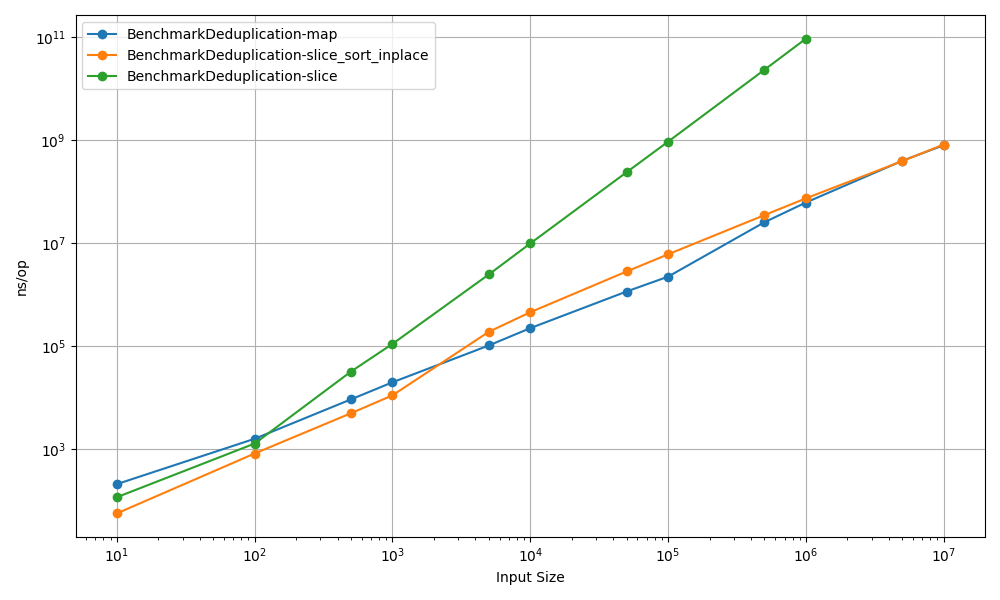
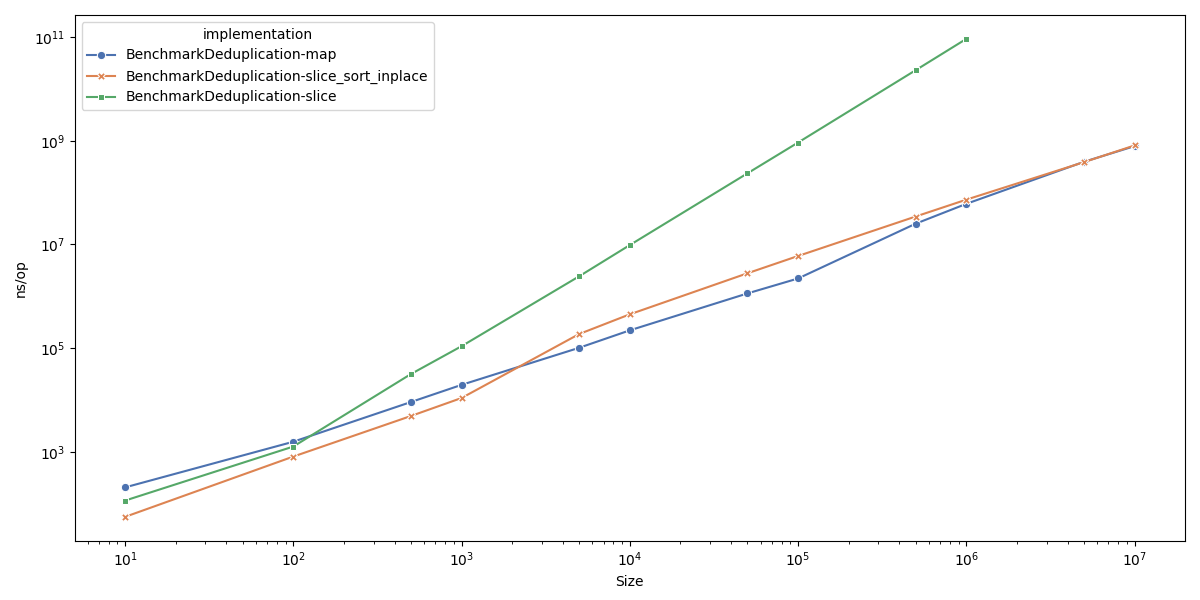
Updated plot.py

diff --git a/plot.py b/plot.py
@@ -1,72 +1,142 @@
-# Yes, this file was generated by chatgipity.
-# 
 import pandas as pd
 import matplotlib.pyplot as plt
-from io import StringIO
+import re
 import argparse
+from io import StringIO
+import seaborn as sns
 
-parser = argparse.ArgumentParser(description="Plot ns/op from benchstat CSV")
+# --- CLI ARGUMENTS ---
+parser = argparse.ArgumentParser(
+    description="Plot ns/op from benchstat CSV with multi-param support"
+)
 parser.add_argument("csvfile", help="Path to benchstat CSV file")
 parser.add_argument("output", help="Output PNG file")
 args = parser.parse_args()
 
-rows = []
-file_labels = []
-
+# --- LOAD CSV LINES ---
 with open(args.csvfile) as f:
     lines = f.readlines()
 
-# Step 1: Locate the sec/op section
+rows = []
+file_labels = []
+
+# --- FIND sec/op SECTION ---
 for i, line in enumerate(lines):
     if "sec/op" in line and "CI" in line:
-        # Extract file names from the line above
         file_line = lines[i - 1]
         file_parts = [p.strip() for p in file_line.split(",") if p.strip()]
         file_labels = [label.removesuffix(".txt") for label in file_parts]
 
-        # Save data rows until next section
+        # Collect sec/op rows
         j = i + 1
         while j < len(lines):
-            if lines[j].strip() == "" or lines[j].startswith(",") or lines[j].lower().startswith("geomean"):
+            if (
+                lines[j].strip() == ""
+                or lines[j].startswith(",")
+                or lines[j].lower().startswith("geomean")
+            ):
                 break
             rows.append(lines[j])
             j += 1
         break
 
-# Step 2: Read data rows into a DataFrame
+# --- PARSE DATA ROWS ---
 csv_data = "".join(rows)
 df_raw = pd.read_csv(StringIO(csv_data), header=None)
 
-# Step 3: Extract benchmark size
-df_raw["Label"] = df_raw[0].str.extract(r"size=(\d+)", expand=False).astype(int)
 
-# Step 4: Identify sec/op columns (they repeat every 2 or 4 columns depending on how many files)
-# We'll scan the sec/op header line to find column indices for 'sec/op'
+# --- EXTRACT PARAMETERS FROM BENCHMARK NAME ---
+def extract_params(name):
+    # Split once at '/', take the right side
+    right = name.split("/", 1)[1]
+    # Split once at '-', take the left side (before thread count suffix)
+    param_part = right.split("-", 1)[0]
+    # Now split into key=value pairs
+    params = {}
+    for part in param_part.split("_"):
+        if "=" in part:
+            key, value = part.split("=", 1)
+            try:
+                params[key] = int(value)
+            except ValueError:
+                params[key] = value  # fallback for non-integer values
+    return params
+
+
+# Extract parameters for each row as a dictionary
+param_dicts = df_raw[0].apply(extract_params)
+# Convert list of dicts to DataFrame and concatenate
+param_df = pd.DataFrame(param_dicts.tolist())
+# Merge parameter columns into df_raw
+df_raw = pd.concat([df_raw, param_df], axis=1)
+
+# --- FIND sec/op COLUMN INDICES ---
 secop_header = [h.strip() for h in lines[i].split(",")]
 secop_indices = [idx for idx, val in enumerate(secop_header) if val == "sec/op"]
 
-# Sanity check
 if len(secop_indices) != len(file_labels):
-    raise ValueError(f"Mismatch: Found {len(secop_indices)} 'sec/op' columns but {len(file_labels)} file labels")
+    raise ValueError(
+        f"Mismatch: Found {len(secop_indices)} 'sec/op' columns but {len(file_labels)} file labels"
+    )
 
-# Step 5: Extract and convert sec/op to ns/op
-df = df_raw[["Label"]].copy()
+# --- CONVERT TO ns/op (Generic) ---
+records = []
+for idx, label in zip(secop_indices, file_labels):
+    for _, row in df_raw.iterrows():
+        try:
+            ns_per_op = float(row[idx]) * 1e9
+        except (ValueError, TypeError):
+            continue  # skip if conversion fails
 
-for col_idx, label in zip(secop_indices, file_labels):
-    df[label] = df_raw[col_idx].astype(float) * 1e9  # sec -> ns
+        # Extract all params (everything beyond fixed CSV columns)
+        row_params = {
+            k: row[k]
+            for k in df_raw.columns
+            if k not in df_raw.columns[: max(secop_indices) + 1]
+        }
 
-# Step 6: Plot
-df = df.sort_values("Label")
+        records.append(
+            {
+                "implementation": label,
+                "ns_per_op": ns_per_op,
+                **row_params,  # dynamically unpack all parameters
+            }
+        )
 
-plt.figure(figsize=(10, 6))
-for label in file_labels:
-    plt.plot(df["Label"], df[label], label=label, marker='o')
+df = pd.DataFrame(records)
 
-plt.xlabel("Input Size")
-plt.ylabel("ns/op")
-plt.legend()
-plt.grid(True)
+# Fixed X axis
+x_col = "size"
+y_col = "ns_per_op"
+
+# Choose hue_col: prefer 'needles' if it exists, otherwise use first other param
+if "iterations" in df.columns:
+    hue_col = "iterations"
+    df[hue_col] = pd.to_numeric(df[hue_col], errors="coerce")
+else:
+    hue_col = "implementation"
+
+# Ensure numeric conversion
+df[x_col] = pd.to_numeric(df[x_col], errors="coerce")
+df[y_col] = pd.to_numeric(df[y_col], errors="coerce")
+
+plt.figure(figsize=(12, 6))
+plot_args = dict(
+    data=df,
+    x=x_col,
+    y=y_col,
+    hue=hue_col,
+    style="implementation",
+    markers=True,
+    dashes=False,
+    palette="deep",
+)
+
+sns.lineplot(**plot_args)
 plt.xscale("log")
 plt.yscale("log")
+plt.xlabel("Size")
+plt.ylabel("ns/op")
 plt.tight_layout()
 plt.savefig(args.output)
+print(f"Saved graph to {args.output}")

diff --git a/needle_haystack_test.go b/needle_haystack_test.go
@@ -9,16 +9,26 @@ import (
 type needleInHaystackBench func(checks int, needle int, haystack []int) bool
 
 func BenchmarkNeedleInAHaystack(b *testing.B) {
-	for _, size := range sizes {
-		for _, nchecks := range needles {
-			b.Run(
-				fmt.Sprintf("slice(%d) needles(%d)", size, nchecks),
-				benchmarkNeedleInAHaystack(size, nchecks, benchNeedleInAHaystackSlice),
-			)
-			b.Run(
-				fmt.Sprintf("map(%d) needles(%d)", size, nchecks),
-				benchmarkNeedleInAHaystack(size, nchecks, benchNeedleInAHaystackMap))
+	switch variant {
+	case "slice":
+		for _, size := range sizes {
+			for _, nchecks := range needles {
+				b.Run(
+					fmt.Sprintf("size=%d iterations=%d", size, nchecks),
+					benchmarkNeedleInAHaystack(size, nchecks, benchNeedleInAHaystackSlice),
+				)
+			}
 		}
+	case "map":
+		for _, size := range sizes {
+			for _, nchecks := range needles {
+				b.Run(
+					fmt.Sprintf("size=%d iterations=%d", size, nchecks),
+					benchmarkNeedleInAHaystack(size, nchecks, benchNeedleInAHaystackMap))
+			}
+		}
+	default:
+		b.Errorf("speficy which test to run: -args -test slice|map")
 	}
 }
 
@@ -35,7 +45,7 @@ func benchmarkNeedleInAHaystack(size int, checks int, runF needleInHaystackBench
 
 func benchNeedleInAHaystackSlice(checks int, needle int, haystack []int) bool {
 	var f bool
-	for i := 0; i < checks; i++ {
+	for range checks {
 		f = needleInAHaystackSlice(needle, haystack)
 	}
 	return f
@@ -54,14 +64,14 @@ func needleInAHaystackSlice(needle int, haystack []int) bool {
 func benchNeedleInAHaystackMap(checks int, needle int, haystack []int) bool {
 	var f bool
 	mapHaystack := haystackToMap(haystack)
-	for i := 0; i < checks; i++ {
+	for range checks {
 		f = needleInAHaystackMap(needle, mapHaystack)
 	}
 	return f
 }
 
 func haystackToMap(haystack []int) map[int]struct{} {
-	var out = make(map[int]struct{}, len(haystack))
+	out := make(map[int]struct{}, len(haystack))
 	for _, v := range haystack {
 		out[v] = struct{}{}
 	}

diff --git a/deduplication_test.go b/deduplication_test.go
@@ -33,7 +33,7 @@ func BenchmarkDeduplication(b *testing.B) {
 			)
 		}
 	default:
-		b.Errorf("speficy which test to run: -args -test slice|map|unique")
+		b.Errorf("speficy which test to run: -args -test map|slice|slice_sort_inplace")
 	}
 }
 

diff --git a/maskfile.md b/maskfile.md
@@ -6,12 +6,23 @@ Use [mask](https://github.com/jacobdeichert/mask) to run.
 
 Runs all benchmarks and regenerates graphs.
 
+###  deduplication
+
 ```bash
 $MASK bench_one "BenchmarkDeduplication" "slice"
 $MASK bench_one "BenchmarkDeduplication" "slice_sort_inplace"
 $MASK bench_one "BenchmarkDeduplication" "map"
 $MASK benchstat "BenchmarkDeduplication"
 $MASK graph "BenchmarkDeduplication"
+```
+
+###  needleInHaystack
+
+```bash
+$MASK bench_one "BenchmarkNeedleInAHaystack" "slice"
+$MASK bench_one "BenchmarkNeedleInAHaystack" "map"
+$MASK benchstat "BenchmarkNeedleInAHaystack"
+$MASK graph "BenchmarkNeedleInAHaystack"
 ```
 
 ## bench_one (benchname) (variant)

diff --git a/README.md b/README.md
@@ -401,4 +401,4 @@ BenchmarkRangeFunc/iter_func(1000)_iterations(1000)-8       127    9272349 ns/op
 ## Notes
 
 - More "Rules of thumb" will be added over time.
-- All benchmarks were conducted on a **Macbook Pro M1 (2020) 16GB RAM**, using **Go 1.21.3**.
+- All benchmarks were conducted on a **Macbook Pro M1 (2020) 16GB RAM**, using **Go 1.24.3**.
